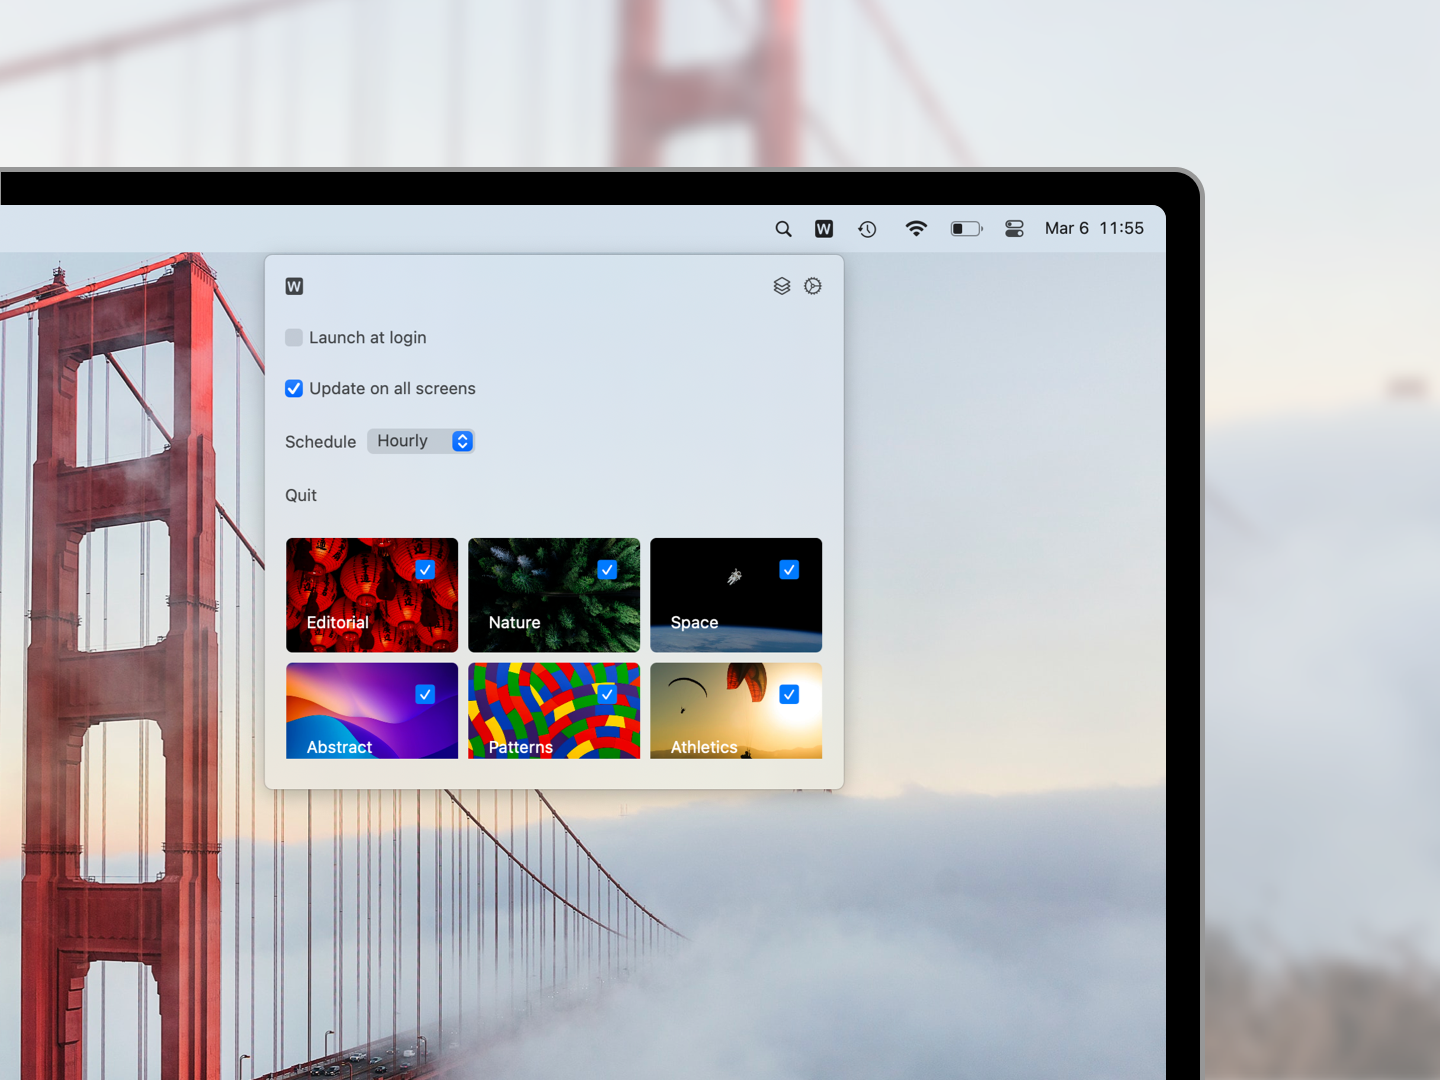
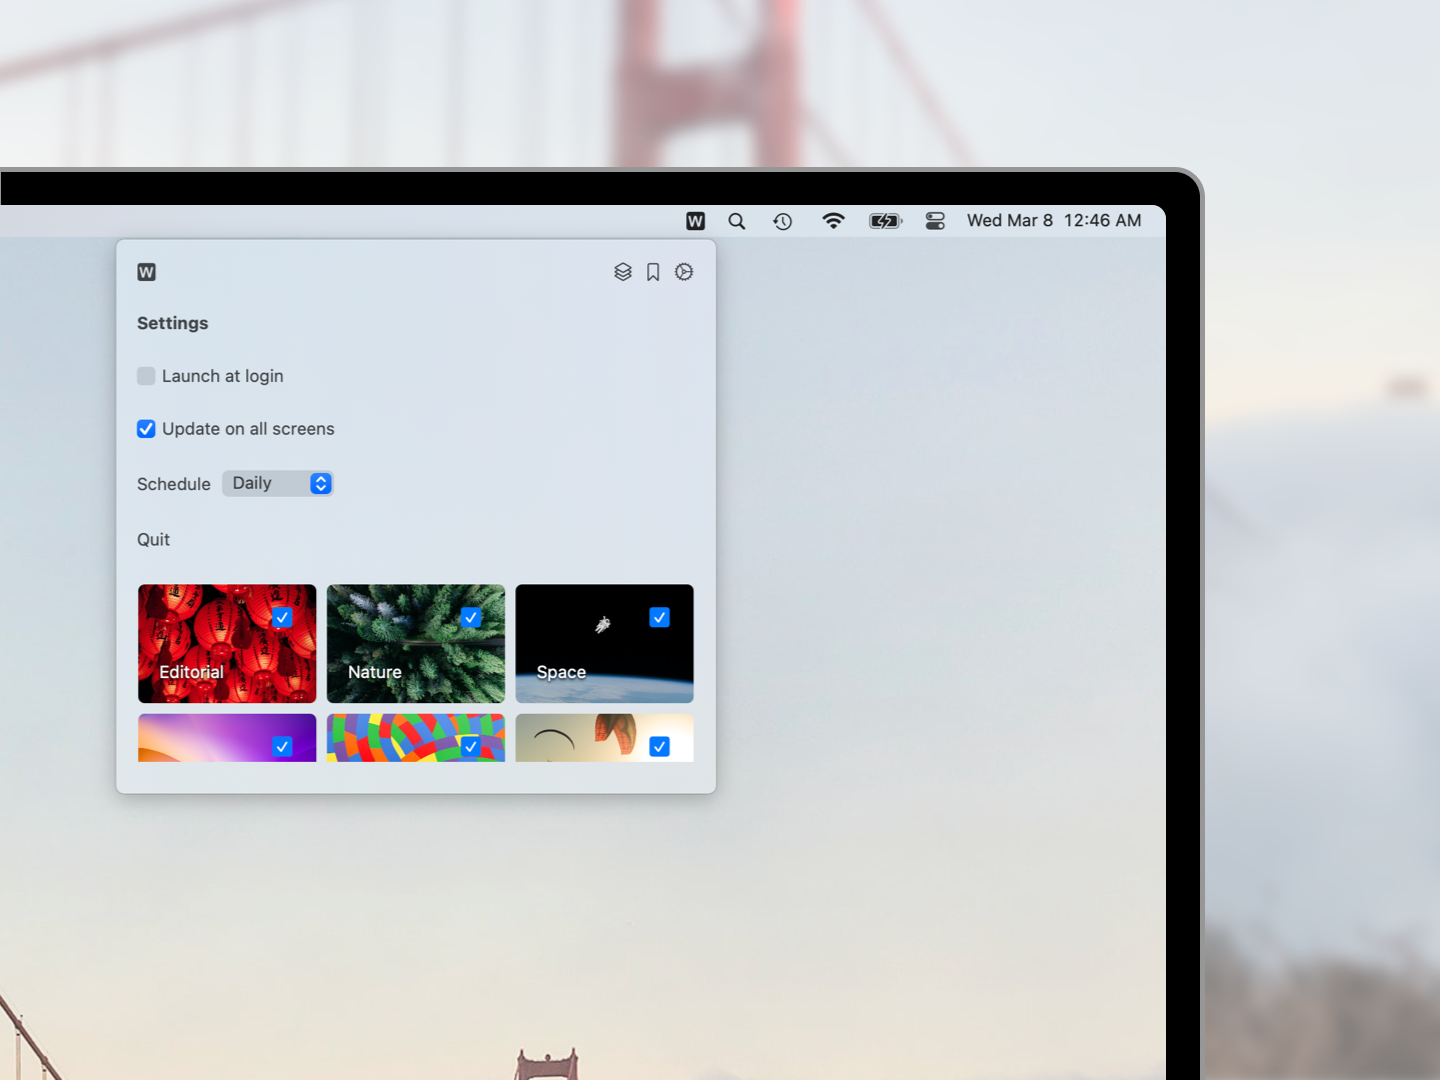
add favorites

diff --git a/app/page.tsx b/app/page.tsx
@@ -3,6 +3,7 @@ import animals from "public/assets/animals.jpg";
 import architecture from "public/assets/architecture.jpg";
 import art from "public/assets/art.jpg";
 import badge from "public/assets/download-on-the-mac-app-store-badge.svg";
+import favorites from "public/assets/favorites.png";
 import nature from "public/assets/nature.jpg";
 import settings from "public/assets/settings.png";
 import space from "public/assets/space.jpg";
@@ -61,7 +62,7 @@ export default async function Home() {
             <p className="text-neutral-600 mt-6 text-base">
               Refresh your wallpaper as often as you&apos;d like and download
               your favorite ones to use anywhere. Find a wallpaper you love?
-              Discover the photographer&apos;s portfolio in just one click.
+              Discover the artist&apos;s portfolio in just one click.
             </p>
           </div>
           <div className="mt-10 lg:mt-0 rounded-lg overflow-hidden flex-none lg:w-1/2">
@@ -74,14 +75,28 @@ export default async function Home() {
       </div>
 
       <div className="py-16">
-        <div className="flex flex-col-reverse lg:flex-row gap-8 max-w-5xl mx-auto px-4 sm:px-8 lg:px-12">
-          <div className="rounded-lg overflow-hidden flex-none lg:w-1/2">
+        <div className="flex flex-col lg:flex-row-reverse gap-8 max-w-5xl mx-auto px-4 sm:px-8 lg:px-12">
+          <div className="flex flex-col justify-center">
+            <h2 className="font-bold text-3xl sm:text-4xl">
+              Revisit your favorites.
+            </h2>
+            <p className="text-neutral-600 mt-6 text-base">
+              Grow your own collection by saving your favorite wallpapers to
+              your favorites list. Endless inspiration at your fingertips.
+            </p>
+          </div>
+          <div className="mt-10 lg:mt-0 rounded-lg overflow-hidden flex-none lg:w-1/2">
             <Image
-              src={settings}
-              alt="Screenshot of the Better Wallpapers app settings."
+              src={favorites}
+              alt="Screenshot of the Better Wallpapers app."
             />
           </div>
-          <div className="flex flex-col justify-center max-w-2xl mt-10 lg:mt-0">
+        </div>
+      </div>
+
+      <div className="bg-neutral-100 py-16">
+        <div className="flex flex-col lg:flex-row gap-8 max-w-5xl mx-auto px-4 sm:px-8 lg:px-12">
+          <div className="flex flex-col justify-center">
             <h2 className="font-bold text-3xl sm:text-4xl">
               Your personal touch, your unique style.
             </h2>
@@ -90,6 +105,12 @@ export default async function Home() {
               screen, or all of them. Choose from a curated collection of
               categories to find the perfect wallpaper for your mood.
             </p>
+          </div>
+          <div className="mt-10 lg:mt-0 rounded-lg overflow-hidden flex-none lg:w-1/2">
+            <Image
+              src={settings}
+              alt="Screenshot of the Better Wallpapers app settings."
+            />
           </div>
         </div>
       </div>

diff --git a/app/Hero.tsx b/app/Hero.tsx
@@ -49,7 +49,7 @@ export default function Hero() {
           <div className="mt-6 text-base text-neutral-600">
             Transform your desktop into a stunning masterpiece. From nature and
             abstract designs to animal and pattern wallpapers, you can customize
-            your MacOS desktop with the perfect wallpaper that reflects your
+            your desktop with the perfect wallpaper that reflects your
             personality and style.
           </div>
           <div className="mt-6">
